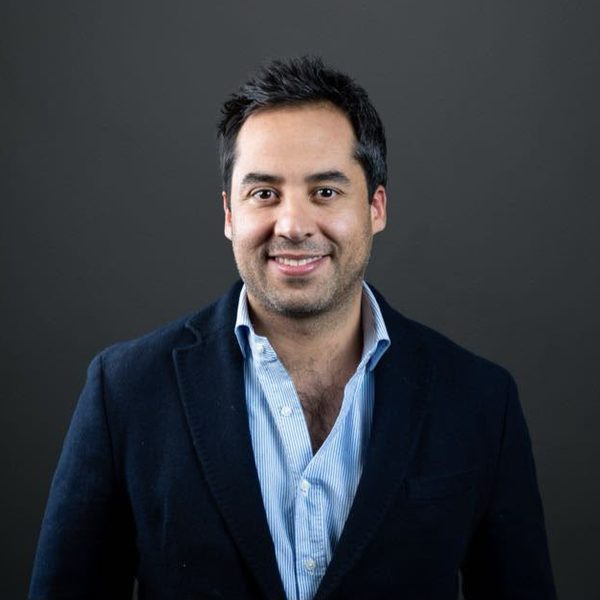
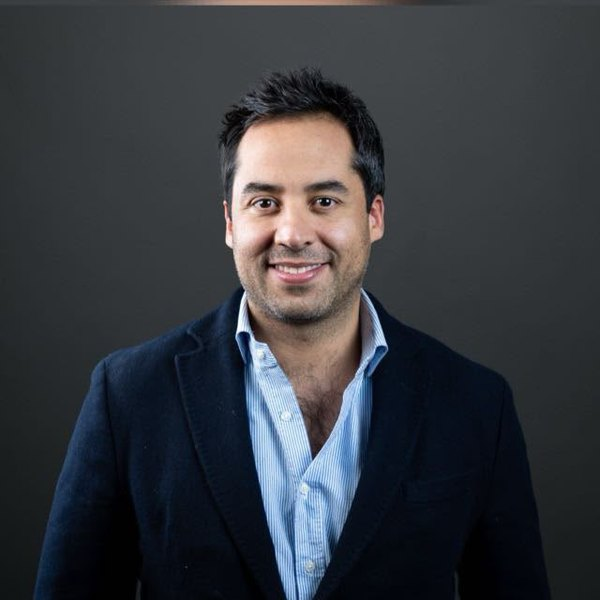
Foto del socio fija: ya no se pide subirla en el formulario

diff --git a/nueva.html b/nueva.html
@@ -104,9 +104,6 @@
     .mapa__img { width: 96px; height: 72px; border-radius: 8px; background: var(--cream) center/cover; border: 1px dashed var(--gray-l); display: grid; place-items: center; font-size: 11px; color: var(--gray); text-align: center; cursor: pointer; }
     .mapa input[type=text] { padding: 8px 10px; margin-bottom: 6px; }
     .mapas-acc { display: flex; flex-wrap: wrap; gap: 8px; margin-top: 12px; }
-    .foto-socio { display: flex; gap: 14px; align-items: center; }
-    .foto-socio > div:nth-child(2) { display: flex; gap: 8px; flex-wrap: wrap; }
-    .foto-socio__img { width: 84px; height: 84px; border-radius: 50%; background: var(--cream) center/cover; border: 1px dashed var(--gray-l); display: grid; place-items: center; font-size: 11px; color: var(--gray); }
     .x { background: none; border: 0; font-size: 20px; color: var(--gray); cursor: pointer; padding: 0 4px; }
 
     .resumen { background: var(--ink); color: #fff; border-radius: 12px; padding: 14px 16px; margin-top: 14px; font-size: 14px; line-height: 1.7; }
@@ -241,15 +238,6 @@
         </div>
         <label>WhatsApp <small>— solo dígitos con lada, ej. 5218112345678</small></label>
         <input type="tel" name="socioWhatsapp" inputmode="numeric">
-        <label>Foto <small>— cuadrada de preferencia; se recorta y comprime sola</small></label>
-        <div class="foto-socio">
-          <div class="foto-socio__img" id="socio-foto-prev">Sin foto</div>
-          <div>
-            <button type="button" class="btn btn--line btn--sm" id="b-socio-foto">Subir foto</button>
-            <button type="button" class="btn btn--line btn--sm" id="b-socio-quitar">Quitar</button>
-          </div>
-          <input type="file" id="socio-file" accept="image/*" hidden>
-        </div>
       </fieldset>
     </form>
 
@@ -300,7 +288,7 @@
   const slugify = (s) => String(s || "").normalize("NFD").replace(/[̀-ͯ]/g, "").toLowerCase().replace(/[^a-z0-9]+/g, "-").replace(/^-+|-+$/g, "").slice(0, 70);
 
   let mapas = [];
-  let socioFoto = "";        // data URL (nueva) o ruta (existente)            // { titulo, pie, src, nuevo }
+  let socioFoto = "assets/socios/carlos-del-valle.jpg";        // data URL (nueva) o ruta (existente)            // { titulo, pie, src, nuevo }
   let slugManual = false;
   let plantilla = "";
 
@@ -770,21 +758,9 @@
     if (file) generarDesdeKMZ(file).catch(() => {});
   });
 
-  /* ---------- Foto del socio ---------- */
-  const fotoPrev = document.getElementById("socio-foto-prev");
-  const fotoFile = document.getElementById("socio-file");
-  function pintarFoto() {
-    fotoPrev.style.backgroundImage = socioFoto ? `url('${socioFoto}')` : "";
-    fotoPrev.textContent = socioFoto ? "" : "Sin foto";
-  }
-  document.getElementById("b-socio-foto").onclick = () => fotoFile.click();
-  document.getElementById("b-socio-quitar").onclick = () => { socioFoto = ""; pintarFoto(); actualizar(); };
-  fotoFile.addEventListener("change", async () => {
-    const file = fotoFile.files[0]; fotoFile.value = "";
-    if (!file) return;
-    socioFoto = await recortarCuadrada(file, 600, 0.82);
-    pintarFoto(); actualizar();
-  });
+  /* ---------- Foto del socio: siempre la misma (assets/socios/carlos-del-valle.jpg) ---------- */
+  const FOTO_SOCIO = "assets/socios/carlos-del-valle.jpg";
+  const pintarFoto = () => {};
   function recortarCuadrada(file, lado, q) {
     return new Promise((ok, mal) => {
       const img = new Image();
@@ -883,7 +859,7 @@
       cronograma: { meses, filas, nota: "Los tiempos son estimados y pueden cambiar. 4S Real Estate vigila la ruta crítica y notifica por escrito cualquier cambio que afecte los entregables." },
       pagos,
       notaPagos: $("notaPagos").value.trim(),
-      socio: { nombre: $("socioNombre").value.trim(), puesto: $("socioPuesto").value.trim(), foto: socioFoto, email: $("socioEmail").value.trim(), telefono: $("socioTelefono").value.trim(), whatsapp: $("socioWhatsapp").value.replace(/\D/g, "") },
+      socio: { nombre: $("socioNombre").value.trim(), puesto: $("socioPuesto").value.trim(), foto: FOTO_SOCIO, email: $("socioEmail").value.trim(), telefono: $("socioTelefono").value.trim(), whatsapp: $("socioWhatsapp").value.replace(/\D/g, "") },
       _form: { mesInicio: mes0, anio: +$("anio").value, semanaInicio: off + 1, esquemaPago: $("esquemaPago").value, inicios: Object.fromEntries(sel.map((s) => [s.id, s.inicio])) }
     };
   }

diff --git a/core/render.js b/core/render.js
@@ -409,7 +409,7 @@
   <section class="contacto" id="contacto">
     <div class="wrap contacto__inner">
       <div class="contacto__foto">
-        <img src="${esc(socio.foto || "assets/brand/isotipo-4s-trim-white.png")}" alt="${esc(socio.nombre || "4S Real Estate")}" class="${socio.foto ? "" : "contacto__iso"}" loading="lazy">
+        <img src="assets/socios/carlos-del-valle.jpg" alt="${esc(socio.nombre || "4S Real Estate")}" loading="lazy">
       </div>
       <div class="contacto__datos">
         ${socio.nombre ? "" : `<p class="eyebrow eyebrow--red">Contacto 4S Real Estate</p>`}
